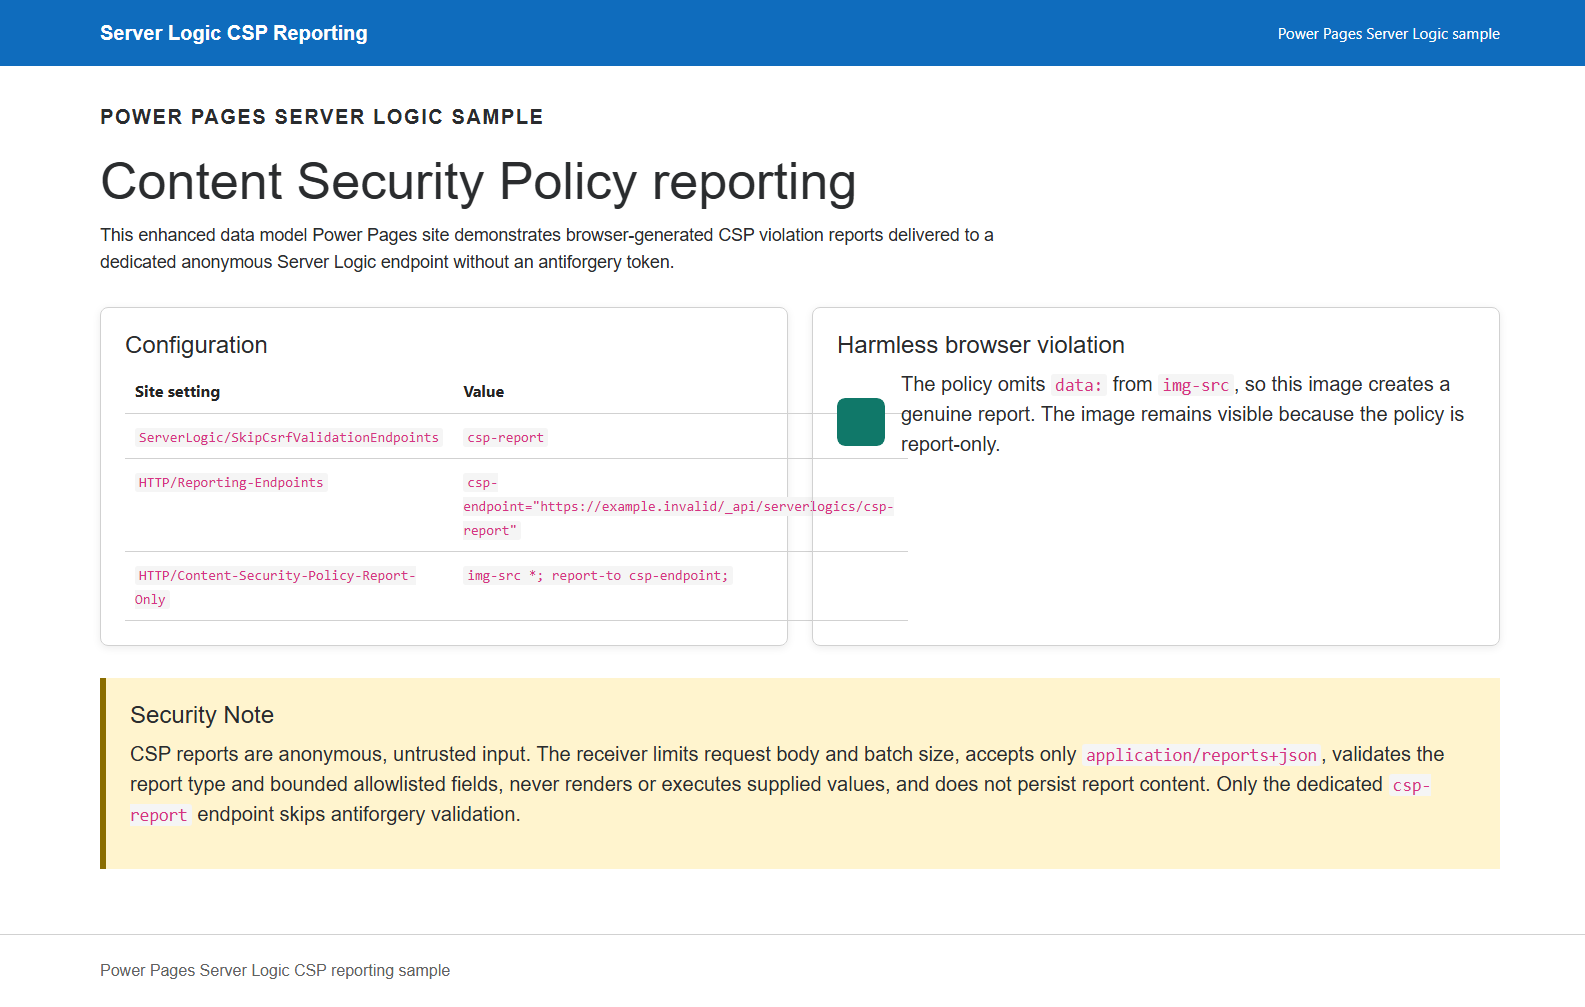
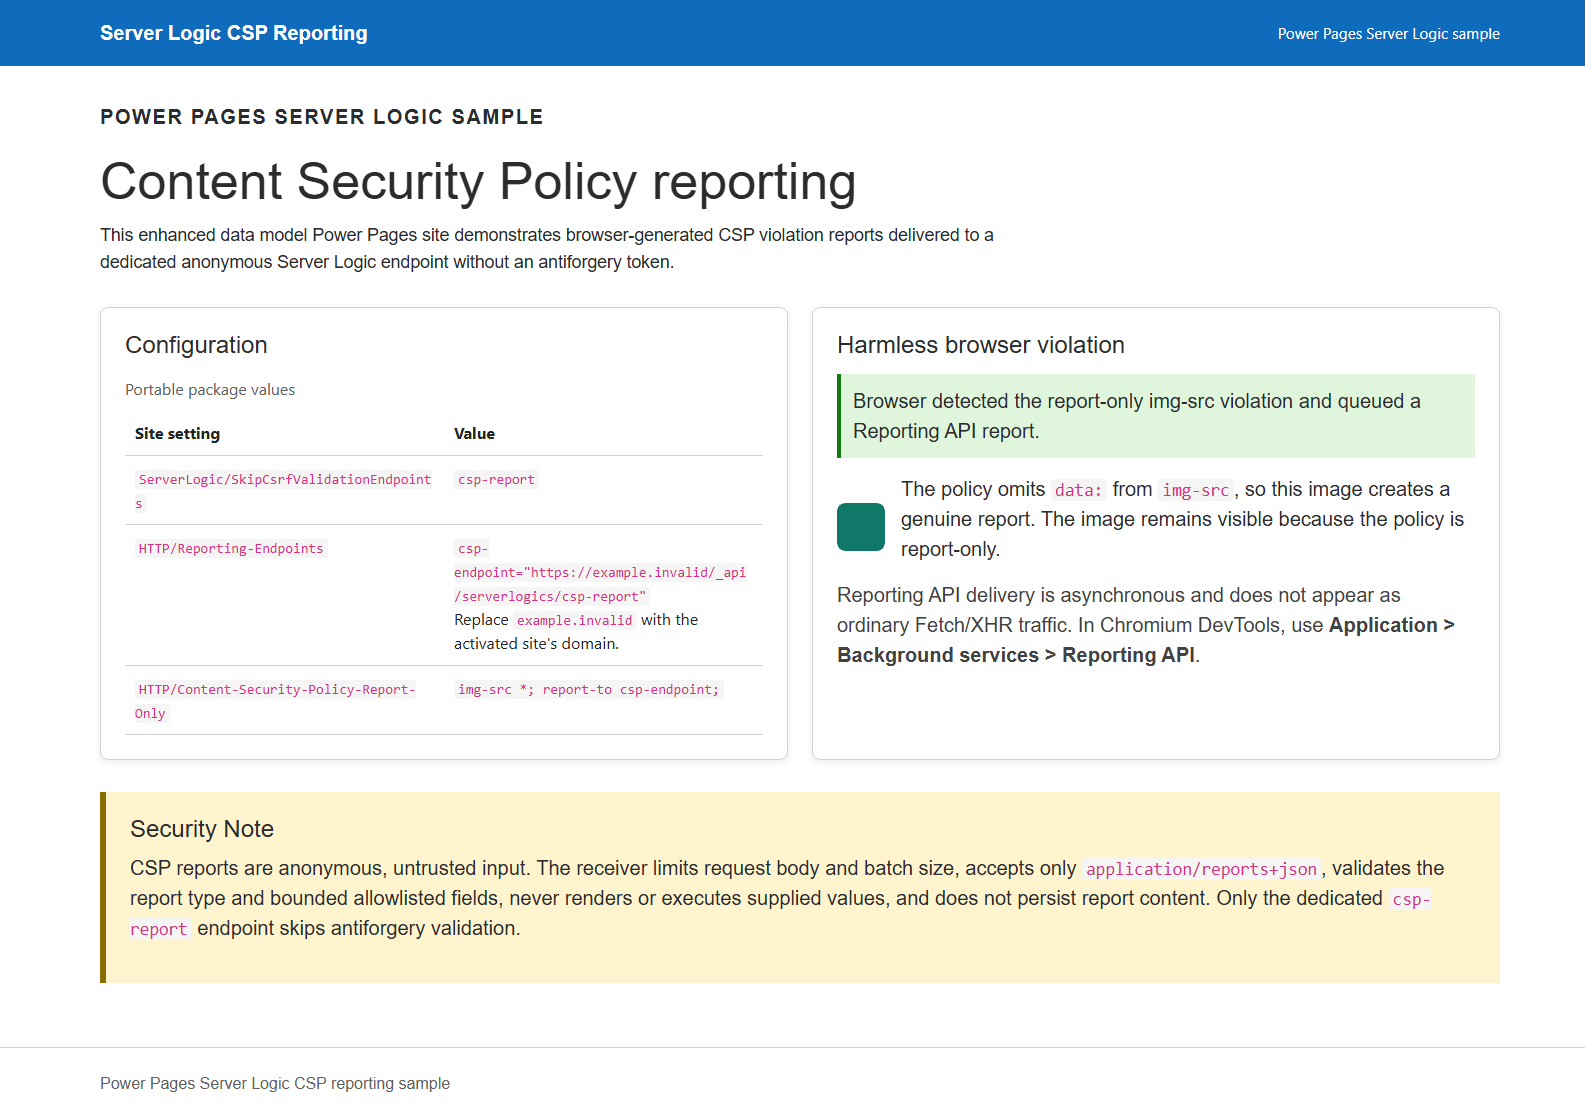
fix: expose CSP reporting diagnostics
Shows the browser CSP event on-page, documents Chromium Reporting API inspection, and prevents configuration table overflow.

Copilot-Session: a7993c0e-4a22-4093-b075-29ab90850332

Changed region(s): [[0.0, 0.0, 1.0, 0.8928], [0.0618, 0.9543, 0.2782, 0.9851]]

diff --git a/samples/server-logic/csp-reporting/source/homepage-content.html b/samples/server-logic/csp-reporting/source/homepage-content.html
@@ -60,7 +60,15 @@
 
   .csp-reporting-sample table {
     border-collapse: collapse;
+    table-layout: fixed;
     width: 100%;
+  }
+
+  .csp-reporting-sample caption {
+    caption-side: top;
+    color: #616161;
+    padding-bottom: 10px;
+    text-align: left;
   }
 
   .csp-reporting-sample th,
@@ -71,13 +79,51 @@
     vertical-align: top;
   }
 
+  .csp-reporting-sample td code {
+    overflow-wrap: anywhere;
+    white-space: normal;
+  }
+
   .csp-reporting-sample .sample-pixel {
     border-radius: 8px;
     flex: 0 0 auto;
     height: 48px;
     width: 48px;
   }
+
+  .csp-reporting-sample .sample-status {
+    background: #f5f5f5;
+    border-left: 4px solid #616161;
+    margin-top: 16px;
+    padding: 12px;
+  }
+
+  .csp-reporting-sample .sample-status[data-state="detected"] {
+    background: #dff6dd;
+    border-left-color: #107c10;
+  }
+
+  .csp-reporting-sample .sample-help {
+    color: #424242;
+    margin-bottom: 0;
+  }
 </style>
+
+<script>
+  document.addEventListener("securitypolicyviolation", function (event) {
+    if (event.disposition !== "report" || event.effectiveDirective !== "img-src") {
+      return;
+    }
+
+    var status = document.getElementById("csp-reporting-event-status");
+    if (!status) {
+      return;
+    }
+
+    status.setAttribute("data-state", "detected");
+    status.textContent = "Browser detected the report-only img-src violation and queued a Reporting API report.";
+  });
+</script>
 
 <main class="csp-reporting-sample" aria-labelledby="csp-reporting-title">
   <p style="font-weight:700;letter-spacing:.08em;text-transform:uppercase;">Power Pages Server Logic sample</p>
@@ -92,6 +138,7 @@
     <section class="sample-card" aria-labelledby="configuration-title">
       <h2 id="configuration-title">Configuration</h2>
       <table>
+        <caption>Portable package values</caption>
         <thead>
           <tr>
             <th scope="col">Site setting</th>
@@ -105,7 +152,11 @@
           </tr>
           <tr>
             <td><code>HTTP/Reporting-Endpoints</code></td>
-            <td><code>csp-endpoint="https://example.invalid/_api/serverlogics/csp-report"</code></td>
+            <td>
+              <code>csp-endpoint="https://example.invalid/_api/serverlogics/csp-report"</code>
+              <br>
+              Replace <code>example.invalid</code> with the activated site's domain.
+            </td>
           </tr>
           <tr>
             <td><code>HTTP/Content-Security-Policy-Report-Only</code></td>
@@ -117,6 +168,14 @@
 
     <section class="sample-card" aria-labelledby="trigger-title">
       <h2 id="trigger-title">Harmless browser violation</h2>
+      <p
+        class="sample-status"
+        id="csp-reporting-event-status"
+        role="status"
+        aria-live="polite"
+        data-state="waiting">
+        Waiting for the browser's report-only CSP event.
+      </p>
       <div class="sample-trigger">
         <img
           class="sample-pixel"
@@ -131,6 +190,11 @@
           policy is report-only.
         </p>
       </div>
+      <p class="sample-help">
+        Reporting API delivery is asynchronous and does not appear as ordinary
+        Fetch/XHR traffic. In Chromium DevTools, use
+        <strong>Application &gt; Background services &gt; Reporting API</strong>.
+      </p>
     </section>
   </div>
 

diff --git a/samples/server-logic/csp-reporting/readme.md b/samples/server-logic/csp-reporting/readme.md
@@ -30,7 +30,7 @@ required site settings.
 | Persistence | None |
 
 Solution ZIP SHA-256:
[2 lines of base64/hex data omitted]
 
 ## Prerequisites
 
@@ -76,7 +76,8 @@ https://<your-site-domain>/
 
 The page loads a harmless green data-URI image. The report-only policy excludes
 the `data:` scheme from `img-src`, causing a genuine `csp-violation` report
-without blocking the image or breaking the page.
+without blocking the image or breaking the page. The status in the card changes
+when the browser raises its report-only CSP event.
 
 The response headers should include:
 
@@ -88,6 +89,15 @@ Reporting-Endpoints: csp-endpoint="https://<your-site-domain>/_api/serverlogics/
 Browsers batch Reporting API requests, so delivery may take approximately one
 minute. The request is sent without an antiforgery token using
 `Content-Type: application/reports+json`.
+
+The background delivery does not appear as ordinary Fetch/XHR traffic in the
+DevTools **Network** panel. To inspect it in Chromium-based browsers:
+
+1. Open DevTools before reloading the page.
+2. In **Console**, clear filters and reload to see the report-only CSP warning.
+3. Open **Application > Background services > Reporting API**, start recording,
+   reload the page, and wait for the `csp-violation` report to be delivered to
+   `csp-endpoint`.
 
 ## Validate the security boundary
 
